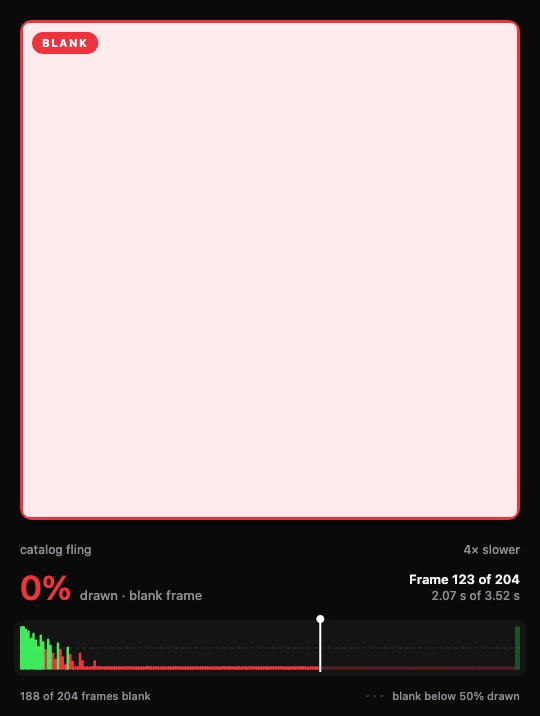
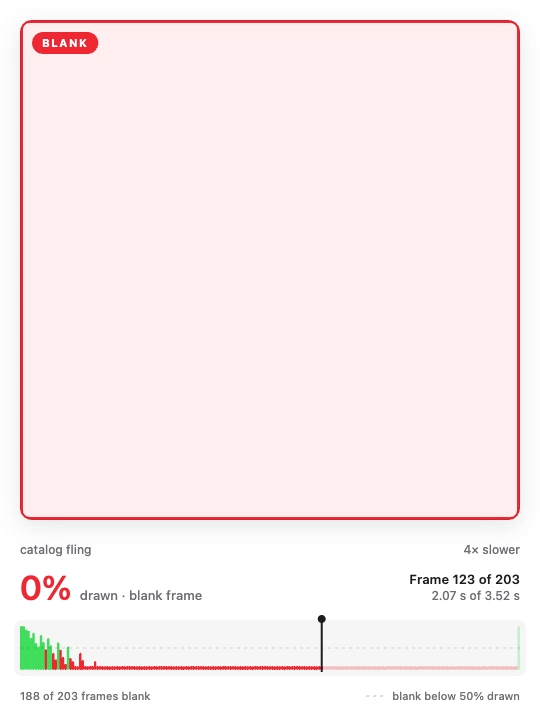
Replay frame on white
White stage, dark text, Apple's light-mode green and red, and a soft shadow
with a hairline edge around the screenshot.

diff --git a/src/replay/encode.ts b/src/replay/encode.ts
@@ -57,12 +57,13 @@ async function renderInPage(
   const font =
     '-apple-system, BlinkMacSystemFont, "SF Pro Text", Inter, "Segoe UI", Roboto, Helvetica, Arial, sans-serif';
   const color = {
-    stage: '#0a0a0b',
-    text: '#f5f5f7',
-    muted: '#8e8e93',
-    faint: 'rgba(255, 255, 255, 0.14)',
-    drawn: '#30d158',
-    blank: '#ff453a',
+    stage: '#ffffff',
+    text: '#1d1d1f',
+    muted: '#6e6e73',
+    faint: 'rgba(0, 0, 0, 0.16)',
+    hairline: 'rgba(0, 0, 0, 0.1)',
+    drawn: '#34c759',
+    blank: '#ff3b30',
   };
 
   const canvas = new OffscreenCanvas(width, height);
@@ -114,7 +115,16 @@ async function renderInPage(
     g.fillStyle = color.stage;
     g.fillRect(0, 0, width, height);
 
-    // The screenshot, with rounded corners.
+    // The screenshot, with rounded corners, a soft shadow and a hairline edge.
+    g.save();
+    g.shadowColor = 'rgba(0, 0, 0, 0.10)';
+    g.shadowBlur = 24;
+    g.shadowOffsetY = 6;
+    g.fillStyle = color.stage;
+    g.beginPath();
+    g.roundRect(pad, pad, imgW, imgH, 12);
+    g.fill();
+    g.restore();
     g.save();
     g.beginPath();
     g.roundRect(pad, pad, imgW, imgH, 12);
@@ -128,11 +138,11 @@ async function renderInPage(
     const w = args.rect.width * sx;
     const h = args.rect.height * sy;
     if (blank) {
-      g.fillStyle = 'rgba(255, 69, 58, 0.10)';
+      g.fillStyle = 'rgba(255, 59, 48, 0.08)';
       g.fillRect(x, y, w, h);
     }
     g.lineWidth = blank ? 3 : 1.5;
-    g.strokeStyle = blank ? color.blank : 'rgba(255, 255, 255, 0.55)';
+    g.strokeStyle = blank ? color.blank : 'rgba(0, 0, 0, 0.35)';
     g.beginPath();
     g.roundRect(x + g.lineWidth / 2, y + g.lineWidth / 2, w - g.lineWidth, h - g.lineWidth, 8);
     g.stroke();
@@ -149,6 +159,11 @@ async function renderInPage(
       g.letterSpacing = '0px';
     }
     g.restore();
+    g.strokeStyle = color.hairline;
+    g.lineWidth = 1;
+    g.beginPath();
+    g.roundRect(pad + 0.5, pad + 0.5, imgW - 1, imgH - 1, 12);
+    g.stroke();
 
     // Panel: the check's name, then this frame's drawn share, position and time.
     const left = pad;
@@ -176,7 +191,7 @@ async function renderInPage(
     const trackW = right - left;
     const step = trackW / n;
     const barW = Math.max(1, step - (step > 3 ? 1 : 0));
-    g.fillStyle = 'rgba(255, 255, 255, 0.04)';
+    g.fillStyle = 'rgba(0, 0, 0, 0.035)';
     g.beginPath();
     g.roundRect(left - 6, trackTop - 6, trackW + 12, trackH + 12, 8);
     g.fill();
@@ -200,7 +215,7 @@ async function renderInPage(
     g.stroke();
     g.setLineDash([]);
     const headX = left + (i + 0.5) * step;
-    g.fillStyle = '#fff';
+    g.fillStyle = color.text;
     g.fillRect(headX - 1, trackTop - 6, 2, trackH + 8);
     g.beginPath();
     g.arc(headX, trackTop - 7, 4, 0, Math.PI * 2);
@@ -211,7 +226,7 @@ async function renderInPage(
     const legend = `blank below ${Math.round(args.blankShare * 100)}% drawn`;
     g.font = `500 11px ${font}`;
     const legendX = right - g.measureText(legend).width;
-    g.strokeStyle = 'rgba(255, 255, 255, 0.35)';
+    g.strokeStyle = 'rgba(0, 0, 0, 0.3)';
     g.setLineDash([3, 4]);
     g.beginPath();
     g.moveTo(legendX - 26, footY - 4);

diff --git a/docs/list-detection.md b/docs/list-detection.md
@@ -38,7 +38,7 @@ The line-counting function (`src/list/coverage.ts`) is plain code with no depend
 
 A replay turns a measured run's screenshots into a WebM video attached to the test (`smoothness replay: <label>`). The run chosen is the one whose blank-frame share is closest to the reported median. Each frame shows the list outlined; on a blank frame the outline turns red, with a **BLANK** label. A panel below gives how drawn the list was, the frame number and its time, and a timeline with one bar per frame, as tall as that frame was drawn and red when it was blank. It plays 4× slower than real time (`REPLAY_SLOWDOWN`), because at 60 frames a second a blank frame lasts 16ms.
 
-![A frame from a replay: the list blank and outlined in red, at 0% drawn on frame 123 of 204, with the run's timeline below](replay-frame.png)
+![A frame from a replay: the list blank and outlined in red, at 0% drawn on frame 123 of 203, with the run's timeline below](replay-frame.png)
 
 - `replay: 'on-regression'` (the default) attaches one when a check got worse. `'on'` attaches one for every full-mode `scroll()`, and `'off'` never.
 - It's made after the test body, from frames the measurement already recorded, so it doesn't affect the numbers. When no replay is wanted, nothing is encoded.
